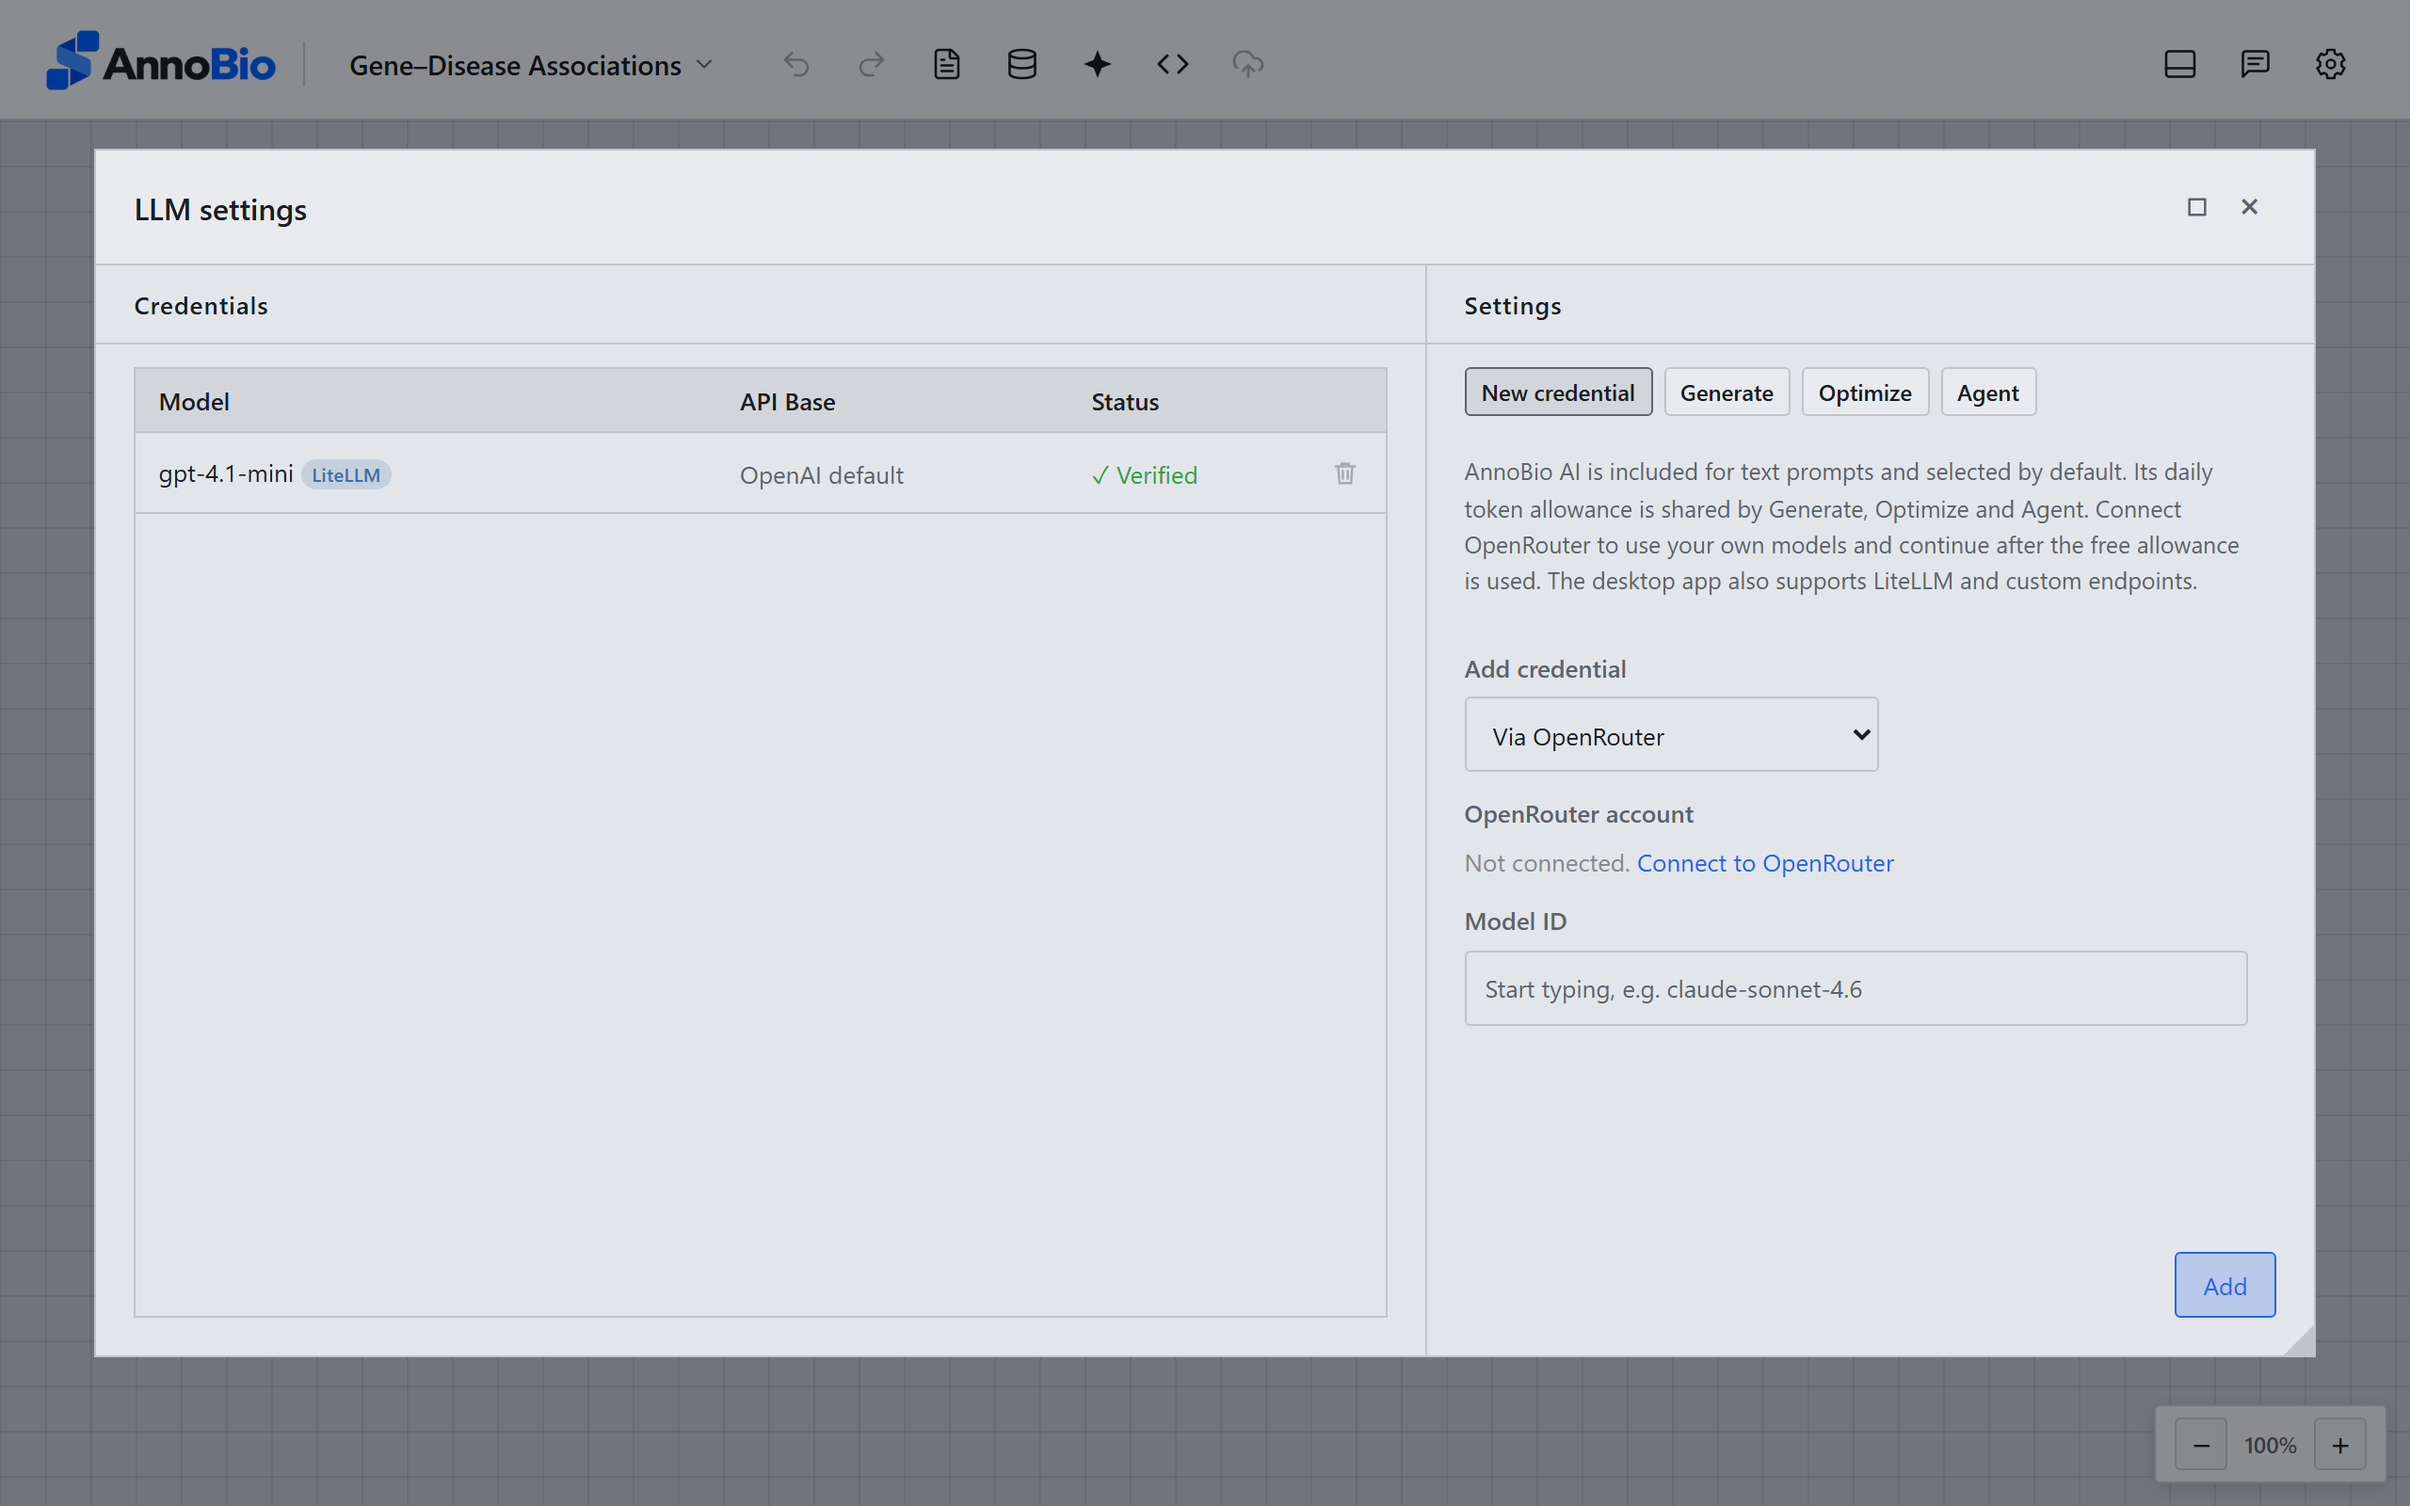
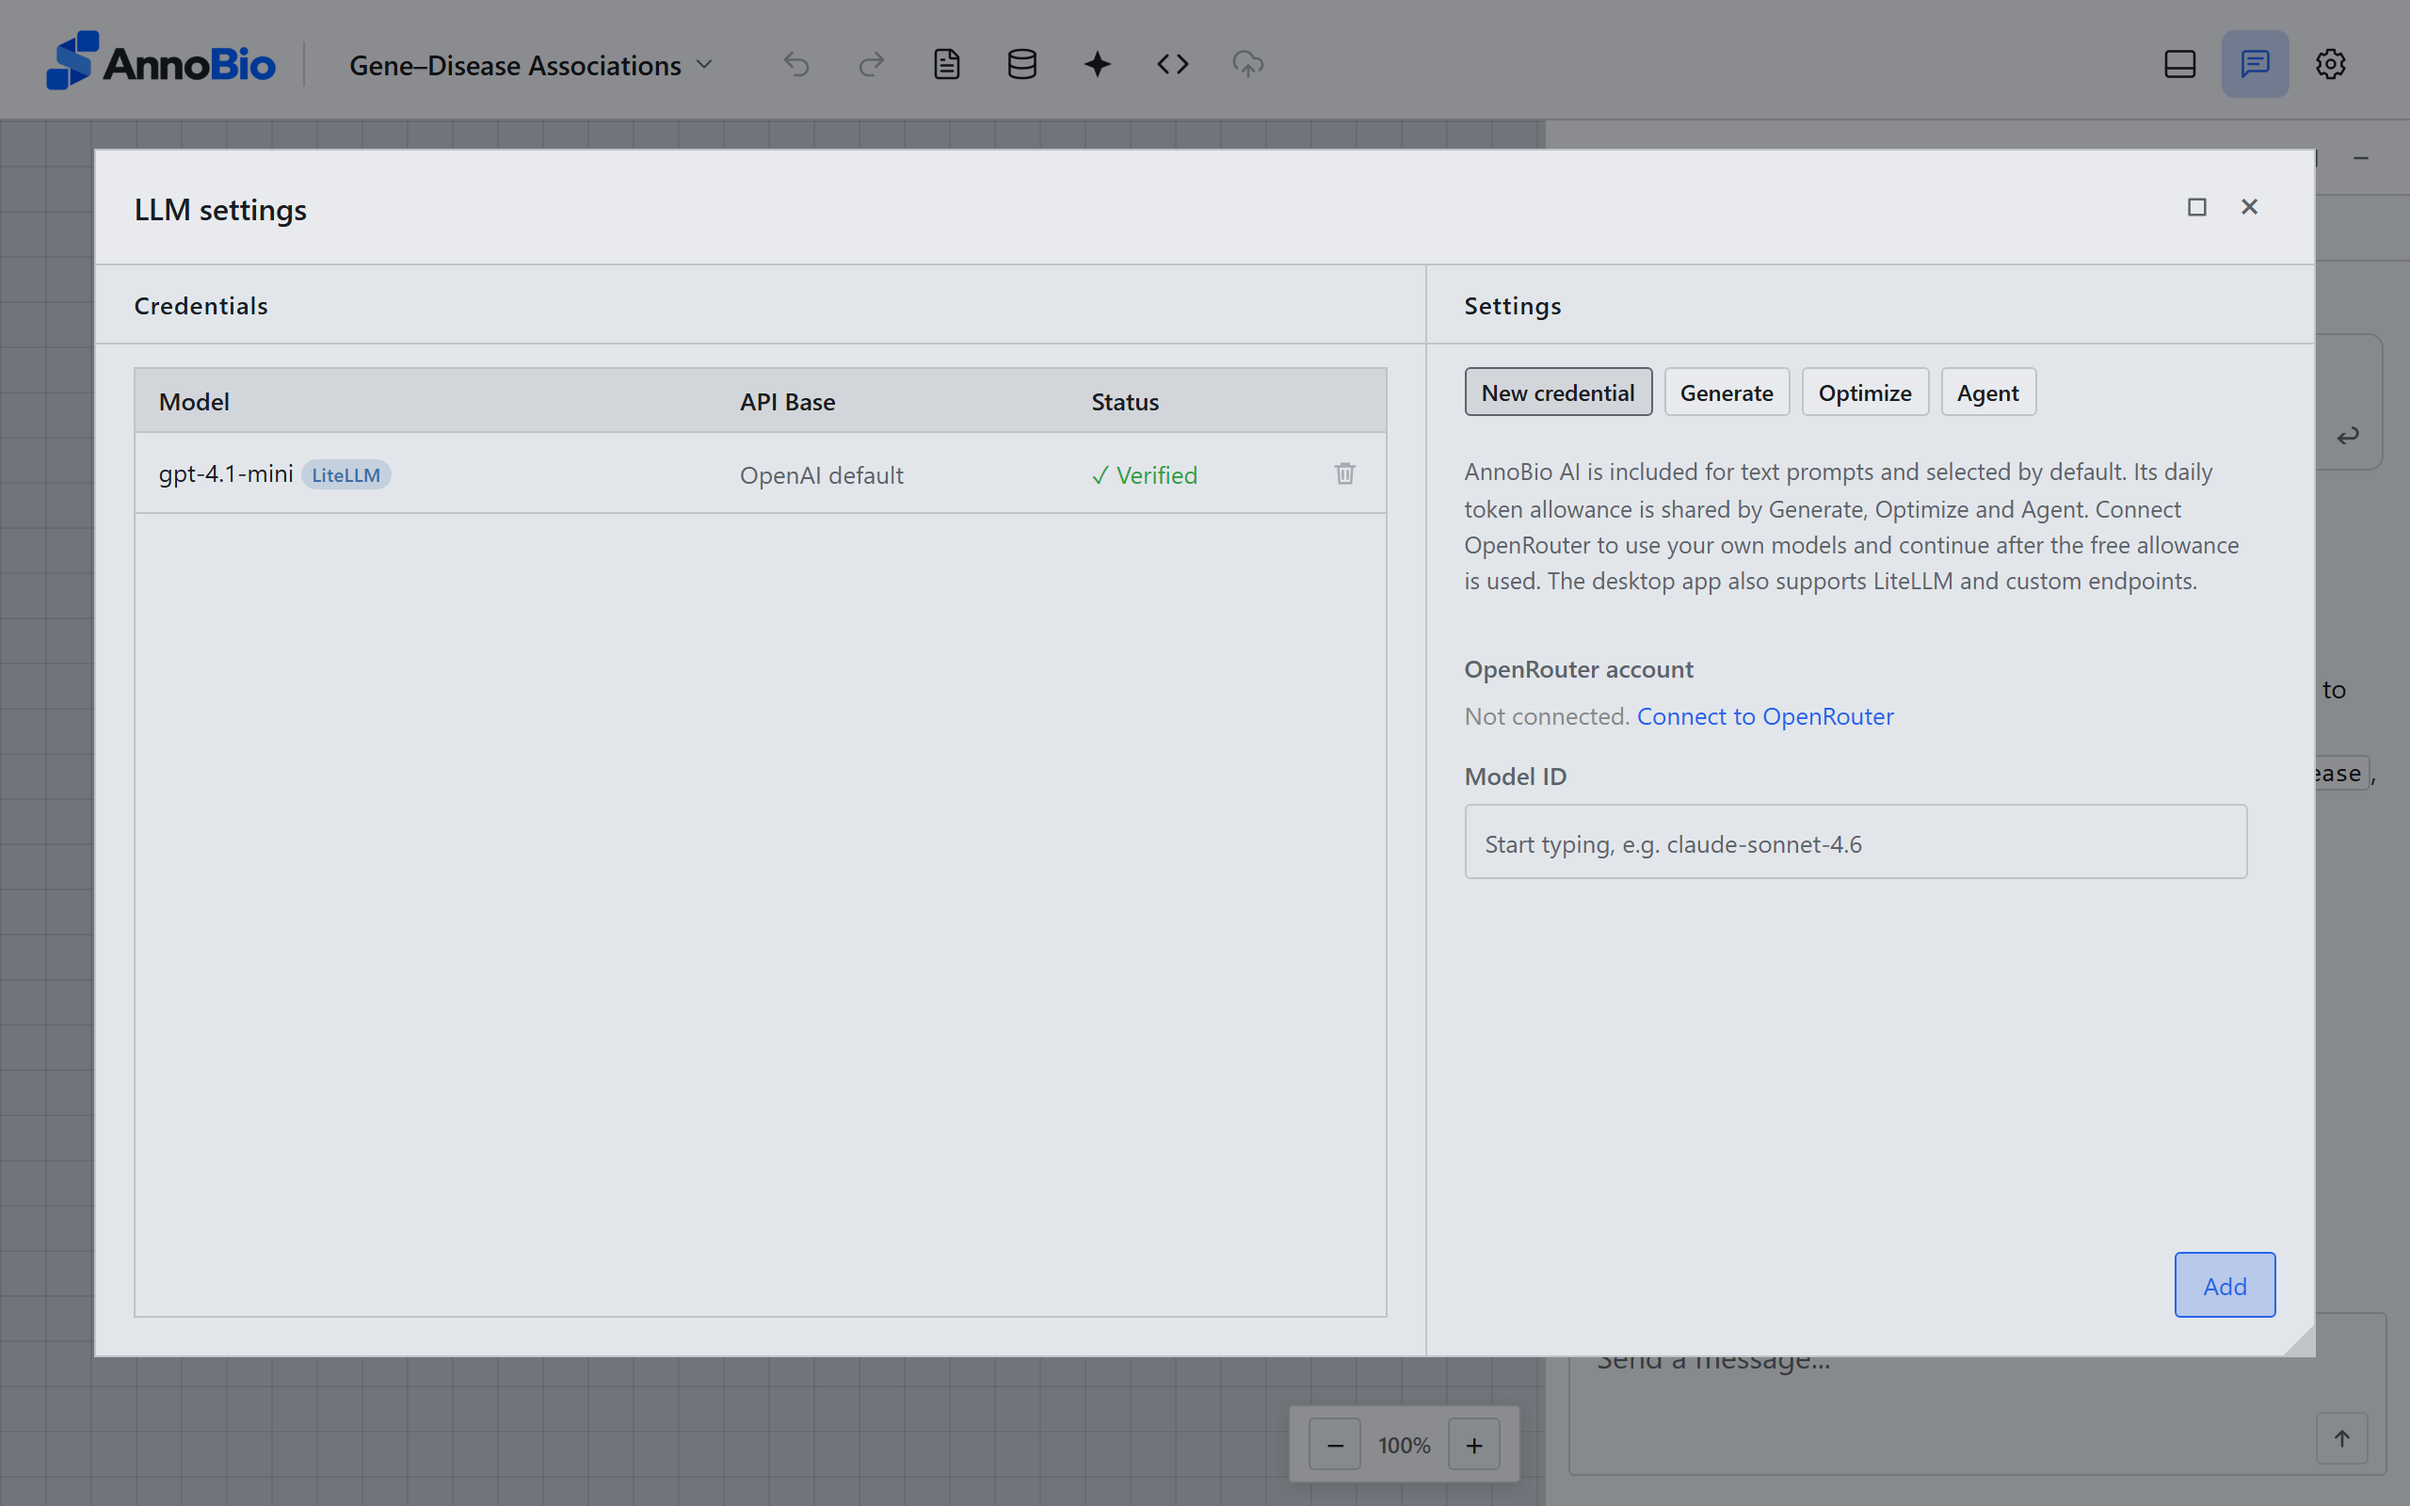
Web: drop the single-option credential method picker

diff --git a/app/src/settingsModal.js b/app/src/settingsModal.js
@@ -731,13 +731,13 @@ export function openSettingsModal() {
                       <div class="defaults-page-scroll settings-credentials-tab-body">
                         <p class="settings-tab-intro">${isDesktop ? 'A credential is a model ID plus the API key that pays for it. Add one through LiteLLM, which reaches most providers and your own server through Base URL, or connect an OpenRouter account. Credentials appear on the left, where clicking a Status tests them, and can then be used by Generate nodes, Optimize nodes and the Agent.' : 'AnnoBio AI is included for text prompts and selected by default. Its daily token allowance is shared by Generate, Optimize and Agent. Connect OpenRouter to use your own models and continue after the free allowance is used. The desktop app also supports LiteLLM and custom endpoints.'}</p>
                         <div id="model-settings-credentials-add" class="model-settings-credentials-add">
-                          <div class="credentials-add-method-row">
+                          ${isDesktop ? `<div class="credentials-add-method-row">
                             <label class="dataset-meta-label" for="credentials-add-method-select">Add credential</label>
                             <select id="credentials-add-method-select" class="dataset-meta-input credentials-add-method-select" aria-label="Add credential method">
-                              ${isDesktop ? '<option value="litellm" selected>Via LiteLLM</option>' : ''}
-                              <option value="openrouter" ${isDesktop ? '' : 'selected'}>Via OpenRouter</option>
+                              <option value="litellm" selected>Via LiteLLM</option>
+                              <option value="openrouter">Via OpenRouter</option>
                             </select>
-                          </div>
+                          </div>` : ''}
                           <div class="credentials-add-tab-panels">
                             ${isDesktop ? `<div class="credentials-add-tab-panel credentials-add-tab-panel--active" id="credentials-add-panel-litellm" data-panel="litellm">
                               <div class="credentials-add-row">
@@ -1398,7 +1398,8 @@ export function openSettingsModal() {
       onSwitchTo: (name) => { if (name === 'openrouter') openRouterConnect?.checkExistingConnection(); },
     });
     footerAdd?.addEventListener('click', () => {
-      if (addMethodSelect?.value === 'openrouter') openRouterConnect?.submit();
+      // The web offers only OpenRouter, so it has no method picker.
+      if (!isDesktop || addMethodSelect?.value === 'openrouter') openRouterConnect?.submit();
       else liteLlmAdd?.submit();
     });
     const [credentials, settings, reviewMethods] = await Promise.all([
